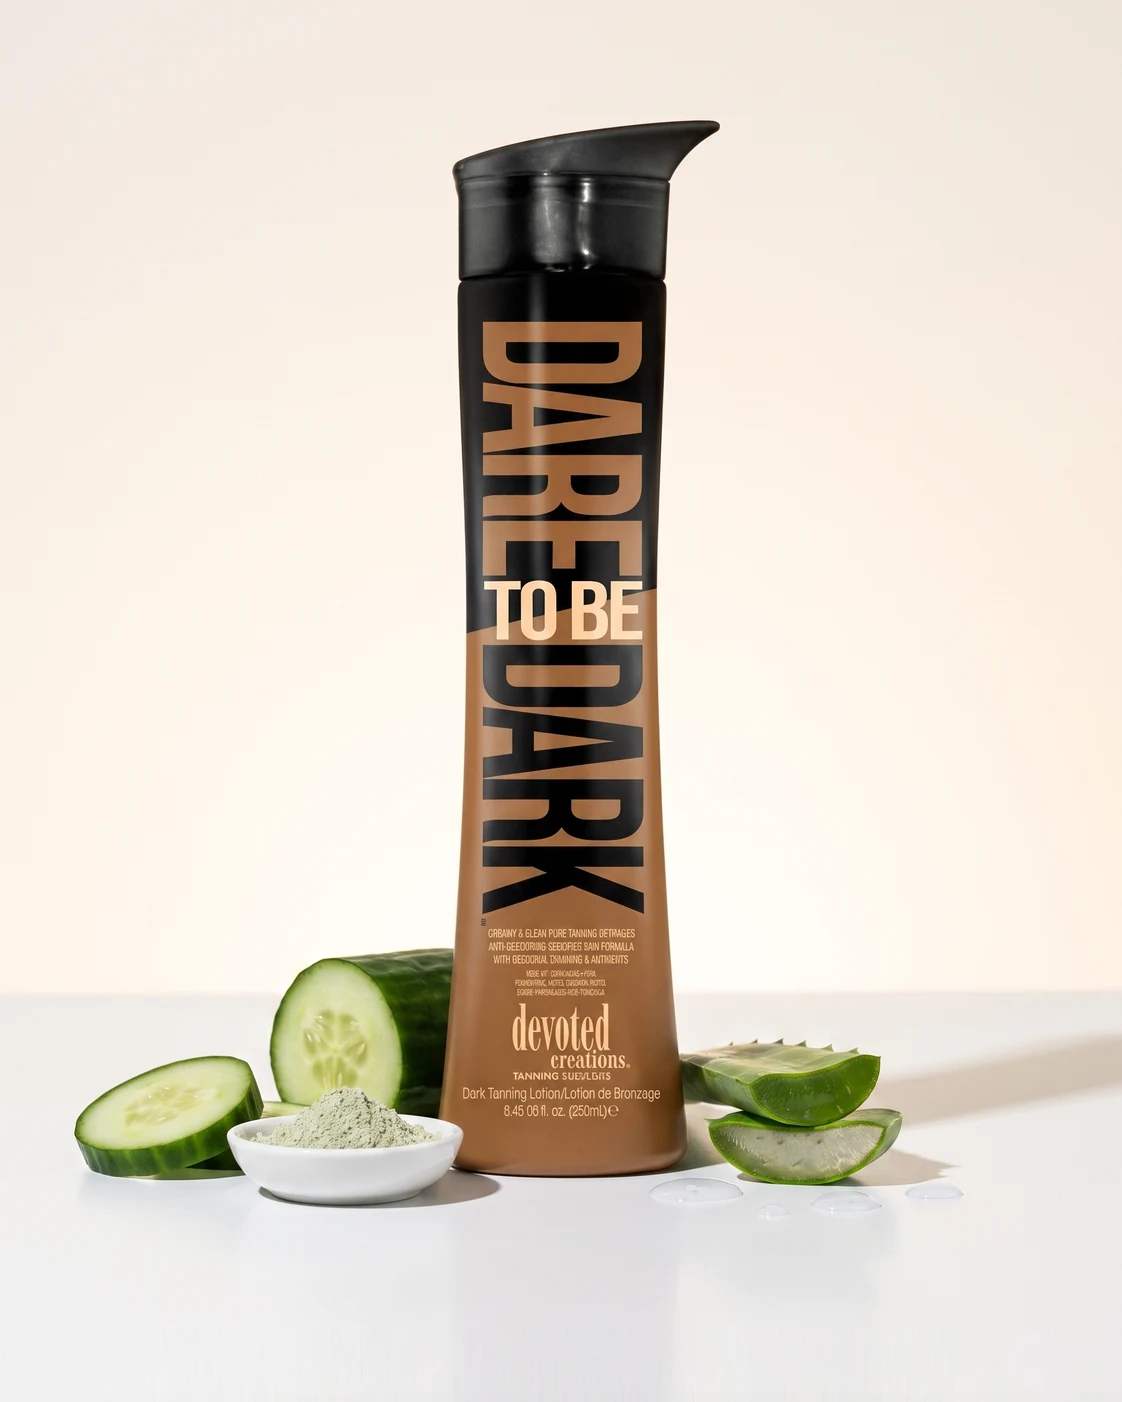
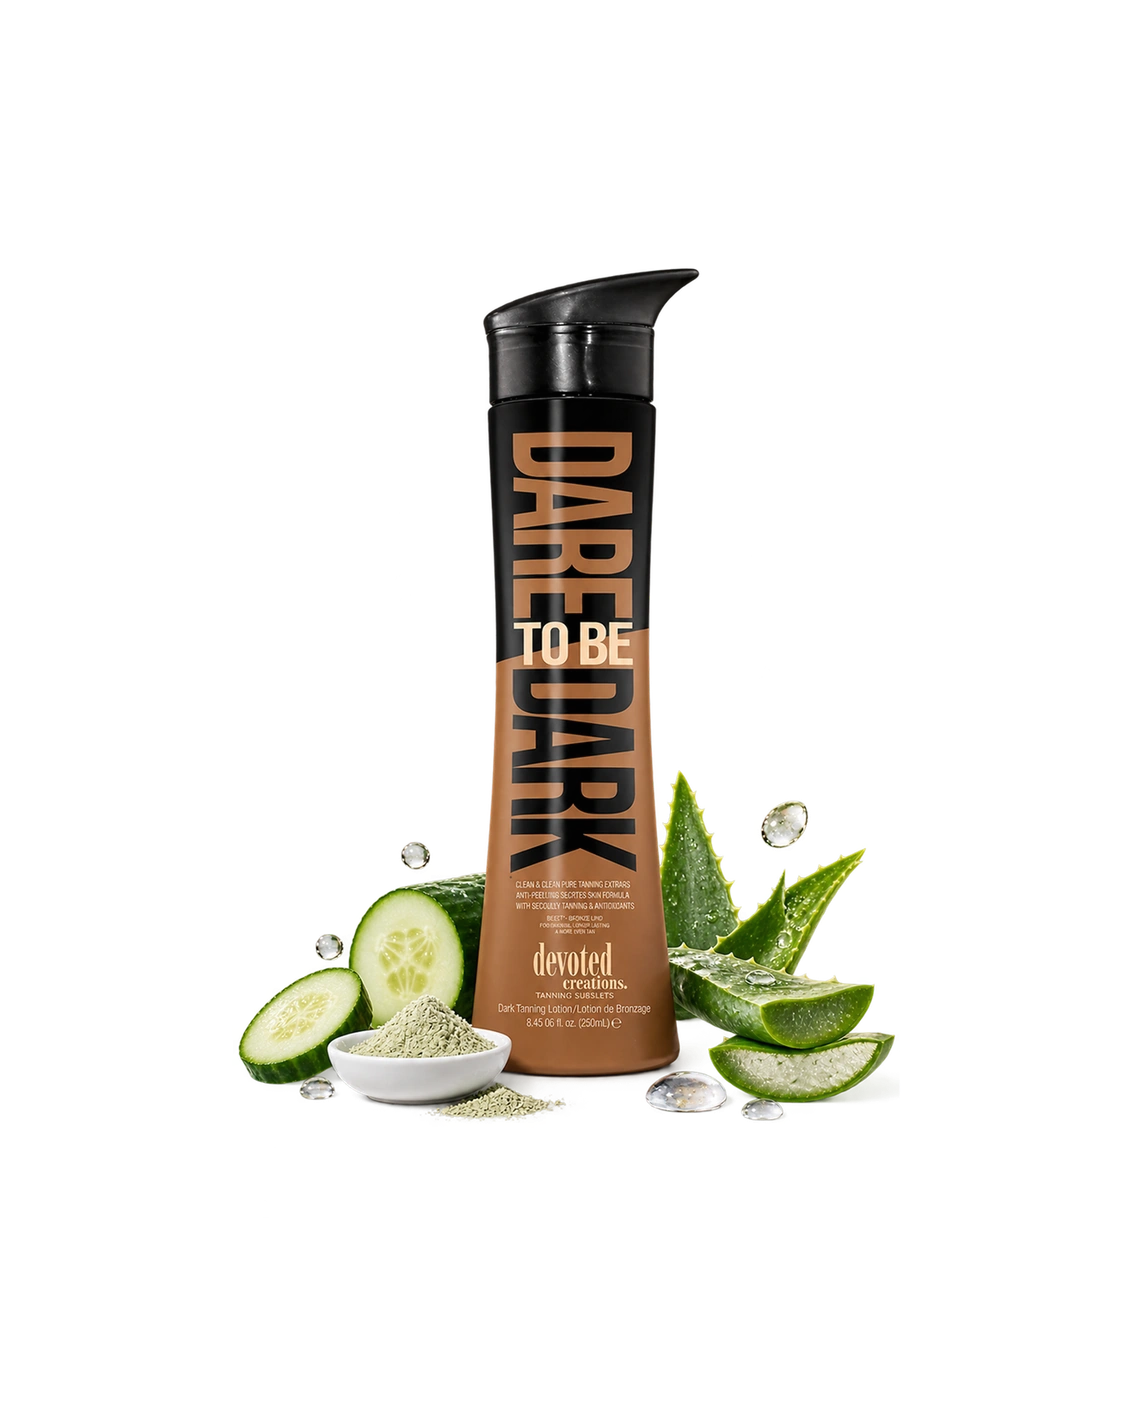
feat: transparante productfoto's op een verlopen kaartvlak
De elf productfoto's hadden elk hun eigen achtergrond ingebakken: een
crèmekleurige cove met een vloer die per beeld op een andere hoogte lag en
net iets anders van kleur was. Naast elkaar in de carousel viel dat op.

Nu zijn het cutouts met een alfakanaal en bepaalt de kaart de achtergrond.
Eén verloop voor alle elf, dus de vloer kán niet meer verspringen — er is
geen vloer meer. Het verloop loopt van een warme zandtint bovenin naar de
paginakleur onderin, binnen het bestaande palet.

De inhoud staat op 86% van het frame en 8% hoger dan de bron, voor elk beeld
even veel, zodat de onderlinge compositie blijft zoals aangeleverd. Onderin
komt daardoor ruimte vrij voor de prijslabels.

De PNG-bronnen staan bewust buiten de repo (.claude/productfotos/bronnen):
14 MB die de build niet gebruikt.

Ook: eslint negeert .claude, waar losse CommonJS-scripts staan die de
TypeScript-regels van dit project afkeuren.

diff --git a/src/components/producten.tsx b/src/components/producten.tsx
@@ -62,9 +62,16 @@ function ProductCardItem({ product }: { product: Product }) {
     <div className={`${CAROUSEL_CARD_CLASS} select-none flex flex-col`}>
       <div className="flex flex-col bg-white rounded-[12px] overflow-hidden flex-1">
         {/* Image */}
-        <div className="w-full aspect-[4/5] md:aspect-auto md:h-[480px] overflow-hidden relative bg-[#F0EAE0]">
+        {/* Verloop in plaats van een vlakke vulling: bovenin de diepste tint,
+            naar beneden oplopend naar de warme paginakleur. Blijft binnen het
+            zandpalet, zodat een productfoto met transparante achtergrond in een
+            ruimte lijkt te staan in plaats van op een vlak. */}
+        <div
+          className="w-full aspect-[4/5] md:aspect-auto md:h-[480px] overflow-hidden relative"
+          style={{ background: "linear-gradient(180deg, #EBDCC5 0%, #F2E9DA 55%, #F6F0E7 100%)" }}
+        >
           <ProductImage src={product.image} alt={product.name} />
-          <div className="absolute bottom-6 left-6 md:bottom-6 md:left-6 flex gap-[4px]">
+          <div className="absolute bottom-6 left-6 flex gap-[4px]">
             {product.sachetPrice && (
               <span className="text-[14px] font-normal leading-none px-2.5 py-1.5 rounded-[4px] bg-brand text-[#111111]">Sachet {product.sachetPrice}</span>
             )}
@@ -104,7 +111,7 @@ function ProductImage({ src, alt }: { src: StaticImageData; alt: string }) {
       {!loaded && (
         <div
           className="absolute inset-0 animate-pulse"
-          style={{ background: "linear-gradient(90deg, #F0EAE0 25%, #E8DDD0 50%, #F0EAE0 75%)", backgroundSize: "200% 100%" }}
+          style={{ background: "linear-gradient(90deg, #F2E9DA 25%, #E8DAC1 50%, #F2E9DA 75%)", backgroundSize: "200% 100%" }}
         />
       )}
       <Image
